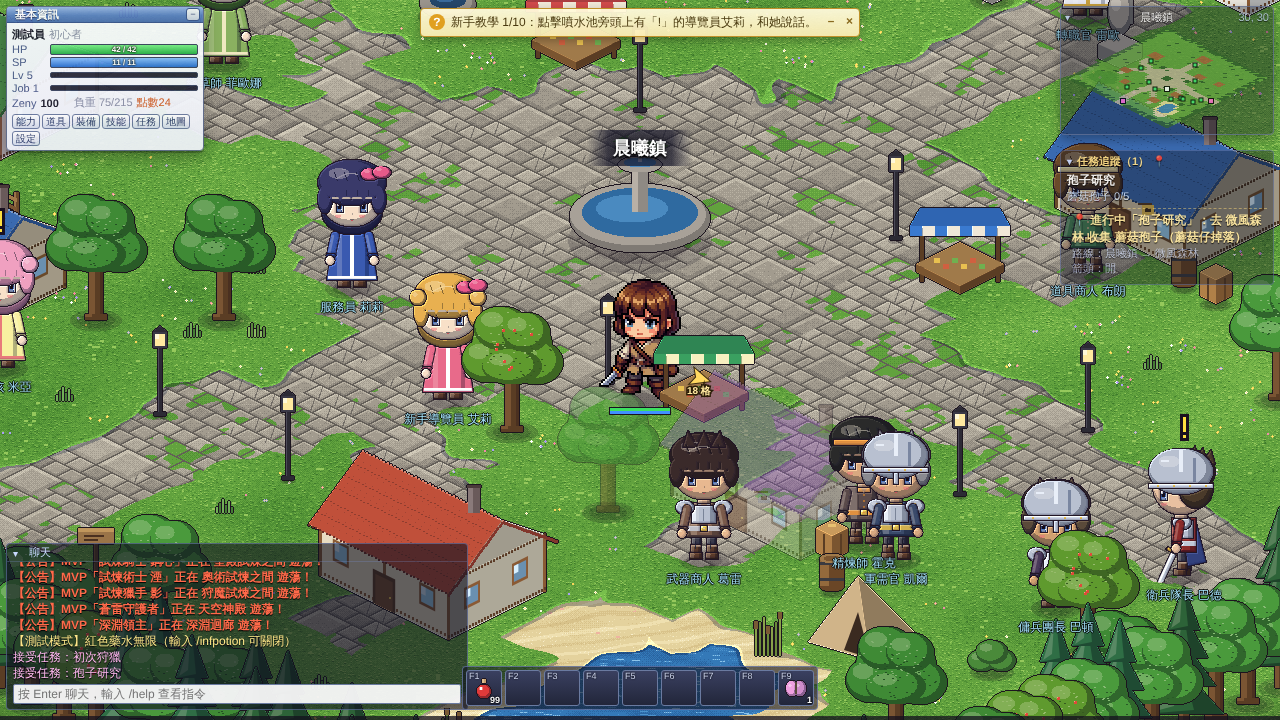
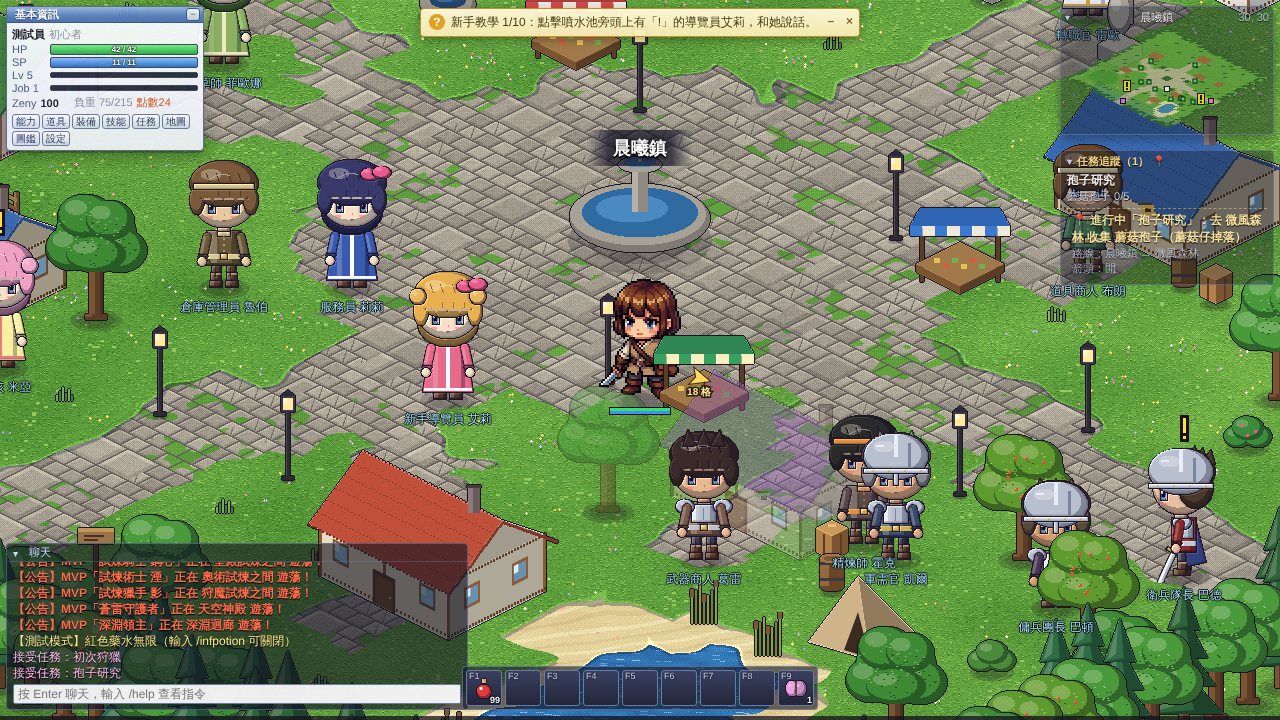
找任務：任務視窗列出可接任務與地點、小地圖與世界地圖標記、新任務提示
Claude-Session: https://claude.ai/code/session_01T2m48zuVeiYqCrQn65uTXz

diff --git a/ro-mmorpg/src/ui/QuestWindow.ts b/ro-mmorpg/src/ui/QuestWindow.ts
@@ -4,13 +4,13 @@ import { DB, QUESTS } from '../data';
 
 /** 任務視窗（Alt+U）＋右側任務追蹤欄 */
 export class QuestWindow extends Win {
-  constructor(ui: UI) { super(ui, 'quests', '任務（Alt+U）', { x: 300, y: 100, w: 340 }); ui.g.ev.on('quest', () => this.render()); ui.g.ev.on('inv', () => this.render()); }
+  constructor(ui: UI) { super(ui, 'quests', '任務（Alt+U）', { x: 300, y: 100, w: 340 }); ui.g.ev.on('quest', () => this.render()); ui.g.ev.on('inv', () => this.render()); ui.g.ev.on('stats', () => this.render()); }
   render() {
     if (!this.isOpen) return;
     const qs = this.ui.g.quests;
     this.body.innerHTML = '';
     const act = qs.activeList();
-    if (!act.length) this.body.appendChild(h('div', 'dim', '目前沒有進行中的任務。找頭上有「!」的 NPC 談談吧。'));
+    if (!act.length) this.body.appendChild(h('div', 'dim', '目前沒有進行中的任務。看下面「可以接的任務」，或找頭上有「!」的 NPC。'));
     for (const q of act) {
       const box = h('div', 'q-box');
       const done = qs.complete(q);
@@ -21,6 +21,21 @@ export class QuestWindow extends Win {
       box.prepend(b);
       this.body.appendChild(box);
     }
+    const g = this.ui.g;
+    // 可以接的任務：在哪裡、找誰；「追蹤」會讓📍指向它
+    const avail = QUESTS.filter((q) => !q.trial && qs.canAccept(q)).sort((a, b) => (a.reqLv || 0) - (b.reqLv || 0));
+    this.body.appendChild(h('div', 'lbl', `可以接的任務（${avail.length}）`));
+    if (!avail.length) this.body.appendChild(h('div', 'dim', '目前沒有可以接的任務。升級或完成任務後會有新的。'));
+    for (const q of avail) {
+      const box = h('div', 'q-box q-avail');
+      const pinned = g.flags.guidePin === q.id;
+      const b = btn(pinned ? '追蹤中' : '📍追蹤', () => { g.flags.guidePin = pinned ? null : q.id; g.flags.guideSeen = true; this.render(); this.ui.qtrack.render(); }, 'sm' + (pinned ? ' dis' : '')); b.style.float = 'right';
+      box.innerHTML = `<b>${q.name}</b>${q.reqLv ? ` <span class="dim">Lv${q.reqLv}</span>` : ''}<br><span class="sk-desc">${q.desc}</span><br><span class="lbl">找：</span><span class="val">${g.guide.whereNpc(q.npc)}</span>`;
+      box.prepend(b); this.body.appendChild(box);
+    }
+    // 還沒解鎖的（只差等級）：預告
+    const soon = QUESTS.filter((q) => !q.trial && !qs.s[q.id] && (!q.prev || qs.isDone(q.prev)) && (q.reqLv || 0) > g.player.ch.baseLv).sort((a, b) => (a.reqLv || 0) - (b.reqLv || 0)).slice(0, 4);
+    if (soon.length) { this.body.appendChild(h('div', 'lbl', '快解鎖的任務')); for (const q of soon) this.body.appendChild(h('div', 'dim', `Lv${q.reqLv}　${q.name}（${g.guide.whereNpc(q.npc)}）`)); }
     const done = QUESTS.filter((q) => qs.isDone(q.id));
     if (done.length) { this.body.appendChild(h('div', 'lbl', `已完成（${done.length}/${QUESTS.length}）`)); this.body.appendChild(h('div', 'dim', done.map((q) => q.name).join('、'))); }
   }

diff --git a/ro-mmorpg/src/ui/WorldMap.ts b/ro-mmorpg/src/ui/WorldMap.ts
@@ -25,7 +25,9 @@ export class WorldMap extends Win {
     const mons = (d.spawns || []).map((s) => DB.monster[s.m]?.name).filter(Boolean).join('、');
     const bt = (this.ui.g.flags.bossBest || {})[d.mvp?.m || ''];
     const mvp = d.mvp ? `　<b style="color:#c0302a">MVP：${DB.monster[d.mvp.m]?.name}</b>（${this.ui.g.mvpStatus(id)}${bt !== undefined ? '，最快擊殺 ' + Math.floor(bt / 60) + ':' + (bt % 60).toFixed(1).padStart(4, '0') : ''}）` : '';
-    return `<b>${d.name}</b>　${lv}${mvp}<br><span class="dim">${mons ? '出沒：' + mons : d.type === 'town' ? '有商店、旅館、轉職官' : ''}</span>`;
+    const mk = this.ui.g.guide.mapMarks()[id];
+    const qtxt = mk ? `<br><b style="color:#b07a00">任務：${mk.bang ? `有 ${mk.bang} 位 NPC 有任務可接（頭上「!」）` : ''}${mk.bang && mk.ask ? '；' : ''}${mk.ask ? '有任務可以回報（頭上「?」）' : ''}</b>` : '';
+    return `<b>${d.name}</b>　${lv}${mvp}${qtxt}<br><span class="dim">${mons ? '出沒：' + mons : d.type === 'town' ? '有商店、旅館、轉職官' : ''}</span>`;
   }
   render() {
     if (!this.isOpen) return;
@@ -55,10 +57,18 @@ export class WorldMap extends Win {
     c.setLineDash([]);
     const cur = this.ui.g.map.def.id;
     const plv = this.ui.g.player.ch.baseLv;
+    const marks = this.ui.g.guide.mapMarks();
     for (const n of this.nodes) {
       const d = DB.map[n.id]; const img = miniBase(mapData(n.id), 1);
       c.drawImage(img, n.x, n.y);
       if (n.id === cur) { const k = Math.floor(performance.now() / 400) % 2; c.strokeStyle = k ? '#ff3030' : '#ffe040'; c.lineWidth = 2; c.strokeRect(n.x - 3, n.y - 3, n.w + 6, n.h + 6); }
+      const mk = marks[n.id];
+      if (mk) { // 這張地圖有任務 NPC：右上角的徽章（黃「!」可接、綠「?」可回報）
+        const bx = n.x + n.w - 4, by = n.y + 2, ask = mk.ask > 0;
+        c.fillStyle = '#3a2a1a'; c.beginPath(); c.arc(bx, by, 9, 0, Math.PI * 2); c.fill();
+        c.fillStyle = ask ? '#50e070' : '#ffd830'; c.beginPath(); c.arc(bx, by, 7.5, 0, Math.PI * 2); c.fill();
+        c.fillStyle = '#3a2a1a'; c.font = 'bold 12px sans-serif'; c.textAlign = 'center'; c.textBaseline = 'middle'; c.fillText(ask ? '?' : '!', bx, by + 1);
+      }
       c.font = 'bold 12px "Noto Sans TC", sans-serif'; c.textAlign = 'center'; c.textBaseline = 'top';
       const tx = n.x + n.w / 2, ty = n.y + n.h + 2;
       c.fillStyle = '#fff8e0'; for (const [ox, oy] of [[-1, 0], [1, 0], [0, -1], [0, 1]]) c.fillText(d.name, tx + ox, ty + oy);

diff --git a/ro-mmorpg/src/systems/Guide.ts b/ro-mmorpg/src/systems/Guide.ts
@@ -50,6 +50,19 @@ export class Guide {
     return { x: p.x + 0.5, y: p.y + 0.5, next: r[1], route: r };
   }
   private routeText(r: string[]) { return r.map((m) => this.mapName(m)).join(' → '); }
+  /** 每張地圖上有幾個「!」（可接）和「?」（可回報）的任務 NPC，世界地圖用 */
+  mapMarks(): Record<string, { bang: number; ask: number }> {
+    const out: Record<string, { bang: number; ask: number }> = {}, seen = new Set<string>();
+    for (const q of QUESTS) {
+      if (seen.has(q.npc)) continue; seen.add(q.npc);
+      const mk = this.g.quests.mark(q.npc); if (!mk) continue;
+      const at = this.npcAt(q.npc); if (!at) continue;
+      const o = (out[at.map] ||= { bang: 0, ask: 0 }); if (mk === '!') o.bang++; else o.ask++;
+    }
+    return out;
+  }
+  /** 某個任務的接取／回報 NPC 在哪（「名字（地圖）」） */
+  whereNpc(npc: string) { const at = this.npcAt(npc); return `${DB.npc[npc]?.name || npc}${at ? `（${this.mapName(at.map)}）` : ''}`; }
   /** 玩家目前最該做的事 */
   compute(): GuideTarget | null {
     const g = this.g, qs = g.quests, cur = g.map.def.id;
@@ -62,6 +75,8 @@ export class Guide {
       return { text: `${verb}「${q.name}」→ ${nm}（${this.mapName(at.map)}）`, sub: h ? '路線：' + this.routeText(h.route) : undefined, x: h?.x ?? 0, y: h?.y ?? 0, arrow: !!h };
     };
     if (ready) return toNpc(ready, '回報');
+    const pin = g.flags.guidePin && DB.quest[g.flags.guidePin];                           // 玩家在任務視窗按了「追蹤」的可接任務
+    if (pin) { if (qs.canAccept(pin)) return toNpc(pin, '前往接取'); g.flags.guidePin = null; }
     // 進行中的任務：去哪裡打／收集
     for (const q of active) {
       let maps: string[] = [], mons: string[] = [];

diff --git a/ro-mmorpg/src/ui/Minimap.ts b/ro-mmorpg/src/ui/Minimap.ts
@@ -41,8 +41,16 @@ export class Minimap {
       c.fillStyle = col; c.fillRect(X - r, Y - r, r * 2, r * 2);
     };
     for (const p of m.def.portals) dot(p.x + 0.5, p.y + 0.5, '#ff6ad0', 2);
-    for (const n of g.npcs) dot(n.x, n.y, '#40e070', 1.5);
     const blink = Math.floor(performance.now() / 300) % 2 === 0;
+    for (const n of g.npcs) {
+      const mk = g.quests.mark(n.def.id);
+      if (!mk) { dot(n.x, n.y, '#40e070', 1.5); continue; }
+      // 有任務的 NPC：黃色「!」（可接）或綠色「?」（可回報），閃爍
+      const [px, py] = miniPos(m, n.x, n.y); const X = Math.round(px) + 2, Y = Math.round(py) + 2, col = mk === '!' ? '#ffd830' : '#50ff70';
+      c.fillStyle = '#000'; c.fillRect(X - 4, Y - 7, 8, 12); c.fillStyle = blink ? col : '#ffffff'; c.fillRect(X - 3, Y - 6, 6, 10);
+      c.fillStyle = '#000';
+      if (mk === '!') { c.fillRect(X - 1, Y - 5, 2, 5); c.fillRect(X - 1, Y + 1, 2, 2); } else { c.fillRect(X - 2, Y - 5, 4, 1); c.fillRect(X + 1, Y - 4, 1, 2); c.fillRect(X - 1, Y - 2, 2, 1); c.fillRect(X - 1, Y, 1, 1); c.fillRect(X - 1, Y + 2, 1, 1); }
+    }
     for (const mv of g.monsters) if (mv.isMvp && !mv.dead) { // MVP 標記
       const [px, py] = miniPos(m, mv.x, mv.y); const X = Math.round(px) + 2, Y = Math.round(py) + 2;
       c.fillStyle = '#000'; c.fillRect(X - 5, Y - 5, 10, 10); c.fillStyle = blink ? '#ff3030' : '#ffd040'; c.fillRect(X - 4, Y - 4, 8, 8);

diff --git a/ro-mmorpg/tools/act/questfind.js b/ro-mmorpg/tools/act/questfind.js
@@ -1,0 +1,21 @@
+// 找任務：任務視窗「可以接的任務」＋追蹤、小地圖 NPC 標記、世界地圖徽章、升級提示
+const r = await page.evaluate(() => {
+  const G = window.__game, p = G.player, ch = p.ch, out = {}; G.loop.running = false; G.skipStory && G.skipStory(); G.flags.tutOff = true; G.ui.tutorialHint();
+  ch.job = 'novice'; ch.baseLv = 3; p.recalc(true); G.flags.qAnn = undefined; G.quests.s = {};
+  G.loadMap('aurora', 25, 30);
+  for (let i = 0; i < 40; i++) G.update(1 / 60);
+  out.annInit = !!G.flags.qAnn; out.marks = G.guide.mapMarks();
+  // 升級 → 新任務提示
+  const msgs = []; const m0 = G.msg.bind(G); G.msg = (t, k) => { msgs.push(t); m0(t, k); };
+  ch.baseLv = 5; G.gainExpHook = null; window.__gainExp ? 0 : 0;
+  G.quests.announceNew(); out.annAfterLevel = msgs.filter((t) => t.includes('新任務'));
+  // 追蹤
+  const av = window.__DB.quest.q_herb1; out.canHerb = G.quests.canAccept(av);
+  G.flags.guidePin = 'q_herb1'; G.guide.t = 99; out.pinGuide = G.guide.get().text;
+  G.quests.accept('q_herb1'); G.guide.t = 99; out.afterAccept = [G.flags.guidePin, G.guide.get().text];
+  G.ui.open('quests'); out.qwRows = G.ui.wins.quests.body.querySelectorAll('.q-avail').length;
+  return out;
+});
+console.log(JSON.stringify(r));
+await page.evaluate(() => { const G = window.__game; G.quests.s = {}; G.flags.guidePin = null; G.ui.open('quests'); });
+await sleep(700);

diff --git a/ro-mmorpg/src/systems/Quests.ts b/ro-mmorpg/src/systems/Quests.ts
@@ -39,6 +39,16 @@ export class Quests {
     if (f.avail.length) return '!';
     return '';
   }
+  /** 有新任務可以接了就提示一次（升級、完成任務後呼叫）；第一次呼叫只是記下現有的，不提示 */
+  announceNew(silent = false) {
+    const g = this.g, first = !g.flags.qAnn; if (first) g.flags.qAnn = {};
+    const fresh = QUESTS.filter((q) => !q.trial && this.canAccept(q) && !g.flags.qAnn[q.id]);
+    for (const q of fresh) g.flags.qAnn[q.id] = 1;
+    if (first || silent || !fresh.length) return;
+    for (const q of fresh.slice(0, 2)) g.msg(`新任務可以接了：「${q.name}」→ ${g.guide.whereNpc(q.npc)}`, 'quest');
+    if (fresh.length > 2) g.msg(`還有 ${fresh.length - 2} 個新任務，打開任務視窗（Alt+U）看看。`, 'quest');
+    g.audio?.sfx('quest');
+  }
   accept(id: string) {
     const q = this.def(id); if (!q || !this.canAccept(q)) return;
     this.s[id] = { st: 'active', n: 0 };
@@ -58,6 +68,7 @@ export class Quests {
     this.g.audio?.sfx('questdone');
     this.g.fx.dmg(this.g.player.x, this.g.player.y, 'CLEAR', 'skill', 150);
     this.g.ev.emit('quest'); this.g.ev.emit('stats');
+    this.g.after(0.6, () => this.announceNew());
     return true;
   }
   abandon(id: string) { if (this.isActive(id)) { delete this.s[id]; this.g.msg(`放棄任務：${this.def(id).name}`, 'warn'); this.g.ev.emit('quest'); } }

diff --git a/ro-mmorpg/src/ui/ui.css b/ro-mmorpg/src/ui/ui.css
@@ -423,3 +423,5 @@ canvas#game { display: block; image-rendering: pixelated; image-rendering: crisp
 .dex-drops { display: flex; flex-wrap: wrap; gap: 3px 8px; margin-top: 2px; }
 .dex-drop { display: inline-flex; align-items: center; gap: 2px; padding: 0 5px; background: #eef1f8; border-radius: 8px; } .dex-drop img { width: 16px; height: 16px; image-rendering: pixelated; } .dex-drop.unk { color: #8a93a8; }
 #win-bestiary .win-body { max-height: calc(100vh - 150px); overflow-y: auto; } #ui.mobile .dex-list { max-height: none; overflow: visible; } #ui.mobile .dex-info { font-size: 12px; }
+/* 任務視窗：可接的任務 */
+.q-avail { border-left: 3px solid #e0b020; }

diff --git a/ro-mmorpg/src/systems/Tutorial.ts b/ro-mmorpg/src/systems/Tutorial.ts
@@ -42,6 +42,7 @@ export class Tutorial {
   update(dt: number) {
     this.t += dt; if (this.t < 0.5) return; this.t = 0;
     const g = this.g;
+    if (!g.flags.qAnn) g.quests.announceNew(true);   // 記下開局時已經可以接的任務，之後只提示「新的」
     let s = this.step, changed = false;
     while (s < STEPS.length && STEPS[s].done(g)) { s++; changed = true; }
     if (s >= STEPS.length) { const id = this.tip()?.id || ''; if (id !== this.lastTip) { this.lastTip = id; g.ui.tutorialHint(); if (id && !this.off) g.audio.sfx('quest'); } }

diff --git a/ro-mmorpg/src/systems/Exp.ts b/ro-mmorpg/src/systems/Exp.ts
@@ -16,6 +16,7 @@ export function gainExp(g: Game, base: number, job: number, quiet = false) {
       p.recalc(true);
       g.levelUpFx('base');
       g.msg(`基本等級提升到 ${ch.baseLv}！獲得能力點數。`, 'sys');
+      g.after(0.8, () => g.quests.announceNew());
     }
   }
   if (job > 0) {

diff --git a/ro-mmorpg/PROGRESS.md b/ro-mmorpg/PROGRESS.md
@@ -604,3 +604,11 @@
 - `KnightArt` 新增怪物臉（`look.face`，畫在一般的臉上、瀏海下）：`skull` 骷髏（眼窩＋發光瞳孔＋鼻孔＋牙齒）、`goblin` 哥布林（大尖耳、兇眼、大鼻子、咧嘴尖牙）、`orc` 獸人（尖耳、寬下巴、上翹獠牙）、`zombie` 殭屍（一眼睜大一眼瞇著、臉頰縫線）、`bandit` 山賊（兇眼、刀疤、鬍渣；`beard` 加大鬍子）、`mask` 面巾、`visor` 全罩式面甲（發光眼縫）。`bald` 不畫頭髮；頭盔與金邊會跟著 `armor`／`trim` 換色（墮落騎士是暗紫盔甲）。
 - 配件：遺跡守衛、試煉騎士、墮落騎士持盾；試煉騎士與骷髏戰士、墮落騎士有披風；天翼侍衛有光翼。武器沿用原本設定（棍、斧、劍、匕首）。
 - 截圖：`人形怪_精靈圖.png`（12 隻 × 三方向）、`人形怪_新畫法.png`（礦坑實景）。回歸 jobs5／boss_bandit／sheet8／skyabyss 通過。
+
+## 找得到任務：任務視窗、小地圖、世界地圖、新任務提示
+- 問題：不知道哪裡有任務。原本只有 NPC 頭上的「!」與任務欄的📍一行說明，任務視窗只列進行中與已完成的。
+- 任務視窗（Alt+U）新增「可以接的任務」：每個任務顯示名稱、等級、說明、**找誰（在哪張地圖）**，右上「📍追蹤」會讓任務欄的📍與畫面箭頭指向它（`flags.guidePin`，接了任務就自動清除）；另有「快解鎖的任務」預告（只差等級的，含找誰）。
+- 小地圖：有任務的 NPC 改成會閃爍的黃色「!」（可接）或綠色「?」（可回報）標記，其餘 NPC 還是綠點。
+- 世界地圖：有任務 NPC 的地圖右上角有黃色「!」／綠色「?」徽章，滑過地圖的說明多一行「有 N 位 NPC 有任務可接」（`Guide.mapMarks()`）。
+- 新任務提示：升級或完成任務後，若有新的可接任務，聊天欄與音效會提示「新任務可以接了：「名稱」→ NPC（地圖）」（最多 2 個，其餘合併提示；`Quests.announceNew`，開局已可接的只記錄不提示，`flags.qAnn`）。
+- 測試 `tools/act/questfind.js`（標記、升級提示、追蹤與接任務後清除、視窗），截圖 `找任務_任務視窗.png`、`找任務_世界地圖.png`。
